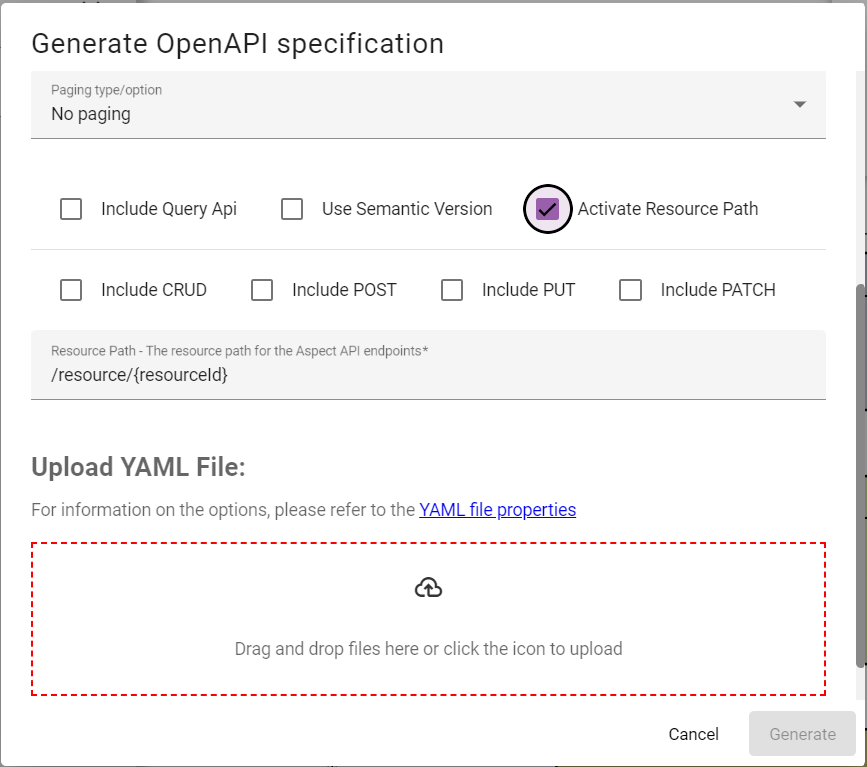
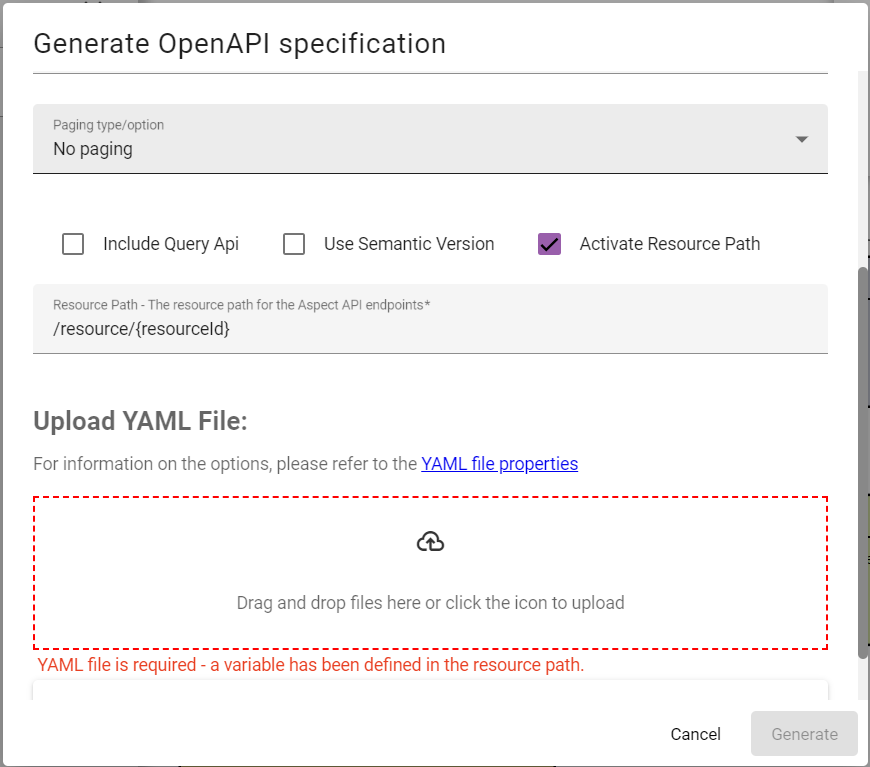
fix e2e

diff --git a/core/libs/api/src/lib/model-api.service.ts b/core/libs/api/src/lib/model-api.service.ts
@@ -269,11 +269,6 @@ export class ModelApiService {
       );
   }
 
-  // larisa
-  // includePost: openApi.includePost,
-  // includePut: openApi.includePut,
-  // includePatch: openApi.includePatch,
-
   generateOpenApiSpec(rdfContent: string, openApi: OpenApi): Observable<string> {
     return this.http
       .post<string>(`${this.serviceUrl}${this.api.generate}/open-api-spec`, rdfContent, {
@@ -285,6 +280,9 @@ export class ModelApiService {
           includeQueryApi: openApi.includeQueryApi,
           useSemanticVersion: openApi.useSemanticVersion,
           pagingOption: openApi.paging,
+          includePost: openApi.includePost,
+          includePut: openApi.includePut,
+          includePatch: openApi.includePatch,
           resourcePath: openApi.resourcePath,
           ymlProperties: openApi.ymlProperties || '',
           jsonProperties: openApi.jsonProperties || '',
